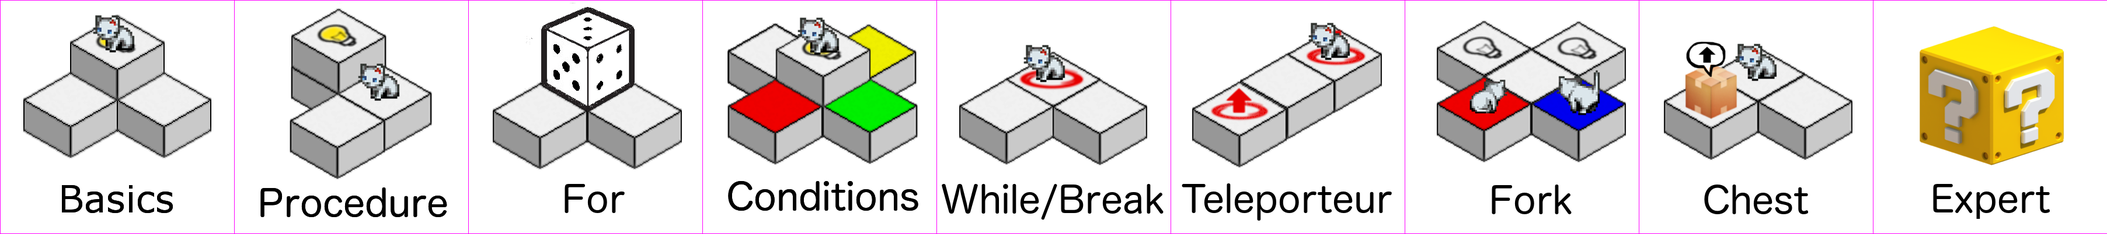
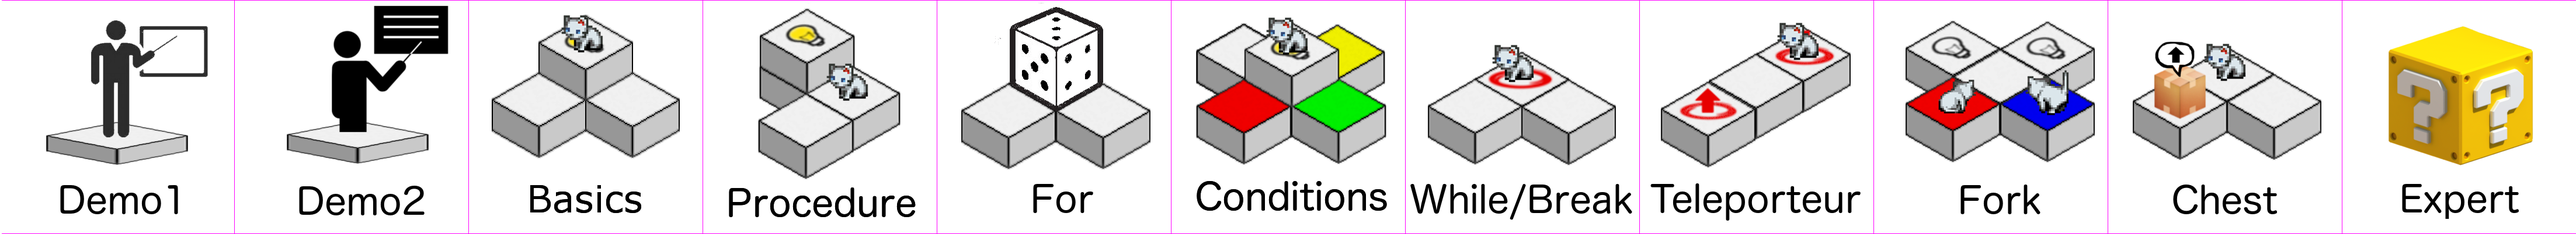
ca affiche le demo

diff --git a/src/UI/Menu_Level.java b/src/UI/Menu_Level.java
@@ -46,7 +46,7 @@ public class Menu_Level extends Menu
 		returnMenu.setTextureRect(new IntRect(1,1,100,100));
 
 		Sprite spr;
-		for (int i = 0 ; i < 9 ; i++)
+		for (int i = 0 ; i < 11 ; i++)
 		{
 			spr = new Sprite();
 			spr.setTexture(Ressources.TEXTURE.getTexture(TEXTURE.MONDE));
@@ -106,7 +106,7 @@ public class Menu_Level extends Menu
 
 	public void afficher()
 	{
-		if(nbr_monde < 8)
+		if(nbr_monde < 10)
 			Graphic.SFML.draw(fleche_right);
 		for(Sprite spr: aura_list)
 			Graphic.SFML.draw(spr);
@@ -149,8 +149,56 @@ public class Menu_Level extends Menu
 		{
 			for (int i = 0; i< monde_list.size() ; i++)
 				for (int j=0; j < nbr_level_list.get(i).size(); j++)
-				{	
+				{
 					if (i == 0 && Graphic.isOnSprite(nbr_level_list.get(i).get(j)))
+					{
+						storeLevel(i, j);
+						if (j == 0)
+						{
+							Reader.read("levels/Demo1.xml");
+							return;
+						}
+						else if (j == 1)
+						{
+							Reader.read("levels/Demo2.xml");
+							return;
+						}
+						else if (j == 2)
+						{
+							Reader.read("levels/Demo3.xml");
+							return;
+						}
+						else if (j == 3)
+						{
+							Reader.read("levels/Demo4.xml");
+							return;
+						}
+					}
+					if (i == 1 && Graphic.isOnSprite(nbr_level_list.get(i).get(j)))
+					{
+						storeLevel(i, j);
+						if (j == 0)
+						{
+							Reader.read("levels/Demo5.xml");
+							return;
+						}
+						else if (j == 1)
+						{
+							Reader.read("levels/Demo6.xml");
+							return;
+						}
+						else if (j == 2)
+						{
+							Reader.read("levels/Demo7.xml");
+							return;
+						}
+						else if (j == 3)
+						{
+							Reader.read("levels/Demo8.xml");
+							return;
+						}
+					}
+					if (i == 2 && Graphic.isOnSprite(nbr_level_list.get(i).get(j)))
 					{
 						storeLevel(i, j);
 						if (j == 0)
@@ -174,7 +222,7 @@ public class Menu_Level extends Menu
 							return;
 						}
 					}
-					else if (i == 1 && Graphic.isOnSprite(nbr_level_list.get(i).get(j)))
+					else if (i == 3 && Graphic.isOnSprite(nbr_level_list.get(i).get(j)))
 					{
 						storeLevel(i, j);
 						if (j == 0)
@@ -194,7 +242,7 @@ public class Menu_Level extends Menu
 						}
 
 					}
-					else if(i == 2 && Graphic.isOnSprite(nbr_level_list.get(i).get(j)))
+					else if(i == 4 && Graphic.isOnSprite(nbr_level_list.get(i).get(j)))
 					{
 						storeLevel(i, j);
 						if (j == 0)
@@ -211,7 +259,7 @@ public class Menu_Level extends Menu
 						}
 
 					}
-					else if (i == 3 && Graphic.isOnSprite(nbr_level_list.get(i).get(j)))
+					else if (i == 5 && Graphic.isOnSprite(nbr_level_list.get(i).get(j)))
 					{
 						storeLevel(i, j);
 						if (j == 0)
@@ -232,12 +280,12 @@ public class Menu_Level extends Menu
 						//						else if( j == 3)
 						//							Reader.read("levels/levelifthenelse-4.xml");
 					}
-					else if (i == 4 && Graphic.isOnSprite(nbr_level_list.get(i).get(j)))
+					else if (i == 6 && Graphic.isOnSprite(nbr_level_list.get(i).get(j)))
 					{
 						storeLevel(i, j);
 						//Niveau while
 					}
-					else if (i == 5 && Graphic.isOnSprite(nbr_level_list.get(i).get(j)))
+					else if (i == 7 && Graphic.isOnSprite(nbr_level_list.get(i).get(j)))
 					{
 						storeLevel(i, j);
 						if (j == 0)
@@ -261,7 +309,7 @@ public class Menu_Level extends Menu
 							return;
 						}
 					}
-					else if (i == 6 && Graphic.isOnSprite(nbr_level_list.get(i).get(j)))
+					else if (i == 8 && Graphic.isOnSprite(nbr_level_list.get(i).get(j)))
 					{
 						storeLevel(i, j);
 						if (j == 0)
@@ -285,7 +333,7 @@ public class Menu_Level extends Menu
 							return;
 						}
 					}
-					else if (i == 7 && Graphic.isOnSprite(nbr_level_list.get(i).get(j)))
+					else if (i == 9 && Graphic.isOnSprite(nbr_level_list.get(i).get(j)))
 					{
 						storeLevel(i, j);
 						if (j == 0)
@@ -307,7 +355,7 @@ public class Menu_Level extends Menu
 						//						else if( j == 3)
 						//							Reader.read("levels/levelchest-4.xml");
 					}
-					else if (i == 8 && Graphic.isOnSprite(nbr_level_list.get(i).get(j)))
+					else if (i == 10 && Graphic.isOnSprite(nbr_level_list.get(i).get(j)))
 					{
 						storeLevel(i, j);
 						//Niveau expert
@@ -316,7 +364,7 @@ public class Menu_Level extends Menu
 				}
 
 			if(Graphic.isOnSprite(fleche_right))
-				if(nbr_monde < 8) //Nombre de monde
+				if(nbr_monde < 10) //Nombre de monde
 					nbr_monde++;
 
 			if(Graphic.isOnSprite(fleche_left))

diff --git a/src/UI/Gui.java b/src/UI/Gui.java
@@ -543,23 +543,27 @@ public class Gui
     //entrer dans le niveau suivant
 	private void next()
 	{
-		if (Menu_Level.get_monde() == 0)
-			Reader.read("levels/level1"+"-"+(Menu_Level.get_level()+2)+".xml");
+	    if (Menu_Level.get_monde() == 0)
+			Reader.read("levels/Demo"+(Menu_Level.get_level()+2)+".xml");
 		else if (Menu_Level.get_monde() == 1)
+			Reader.read("levels/Demo"+(Menu_Level.get_level()+6)+".xml");
+	    else if (Menu_Level.get_monde() == 2)
+			Reader.read("levels/level1"+"-"+(Menu_Level.get_level()+2)+".xml");
+		else if (Menu_Level.get_monde() == 3)
 			Reader.read("levels/levelprocedure"+"-"+(Menu_Level.get_level()+2)+".xml");
-		else if(Menu_Level.get_monde() == 2)
+		else if(Menu_Level.get_monde() == 4)
 			Reader.read("levels/levelfor"+"-"+(Menu_Level.get_level()+2)+".xml");
-		else if(Menu_Level.get_monde() == 3)
-			Reader.read("levels/levelifthenelse"+"-"+(Menu_Level.get_level()+2)+".xml");
-//		else if(Menu_Level.get_monde() == 4)
-//			Reader.read("levels/levelifthenelse"+"-"+(Menu_Level.get_level()+2)+".xml");
 		else if(Menu_Level.get_monde() == 5)
-			Reader.read("levels/levelpoint"+"-"+(Menu_Level.get_level()+2)+".xml");
-		else if(Menu_Level.get_monde() == 6)
-			Reader.read("levels/levelfork"+"-"+(Menu_Level.get_level()+2)+".xml");
+			Reader.read("levels/levelifthenelse"+"-"+(Menu_Level.get_level()+2)+".xml");
+//		else if(Menu_Level.get_monde() == 6)
+//			Reader.read("levels/levelifthenelse"+"-"+(Menu_Level.get_level()+2)+".xml");
 		else if(Menu_Level.get_monde() == 7)
+			Reader.read("levels/levelpoint"+"-"+(Menu_Level.get_level()+2)+".xml");
+		else if(Menu_Level.get_monde() == 8)
+			Reader.read("levels/levelfork"+"-"+(Menu_Level.get_level()+2)+".xml");
+		else if(Menu_Level.get_monde() == 9)
 			Reader.read("levels/levelchest"+"-"+(Menu_Level.get_level()+2)+".xml");
-//		else if(Menu_Level.get_monde() == 8)
+//		else if(Menu_Level.get_monde() == 10)
 //			Reader.read("levels/levelexpert"+"-"+(Menu_Level.get_level()+2)+".xml");
 		Menu_Level.storeLevel(Menu_Level.get_monde(), Menu_Level.get_level()+1);
 	}
